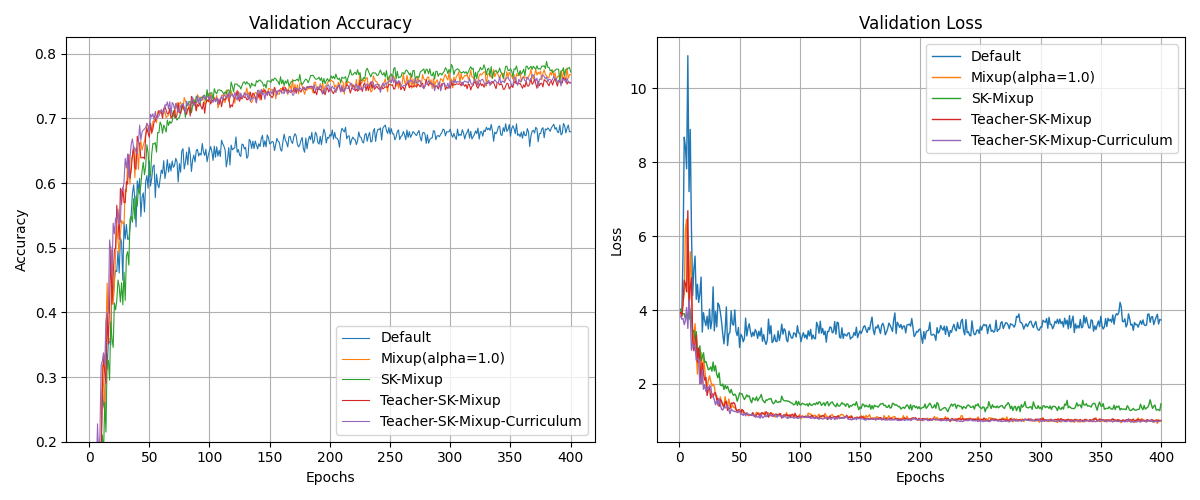
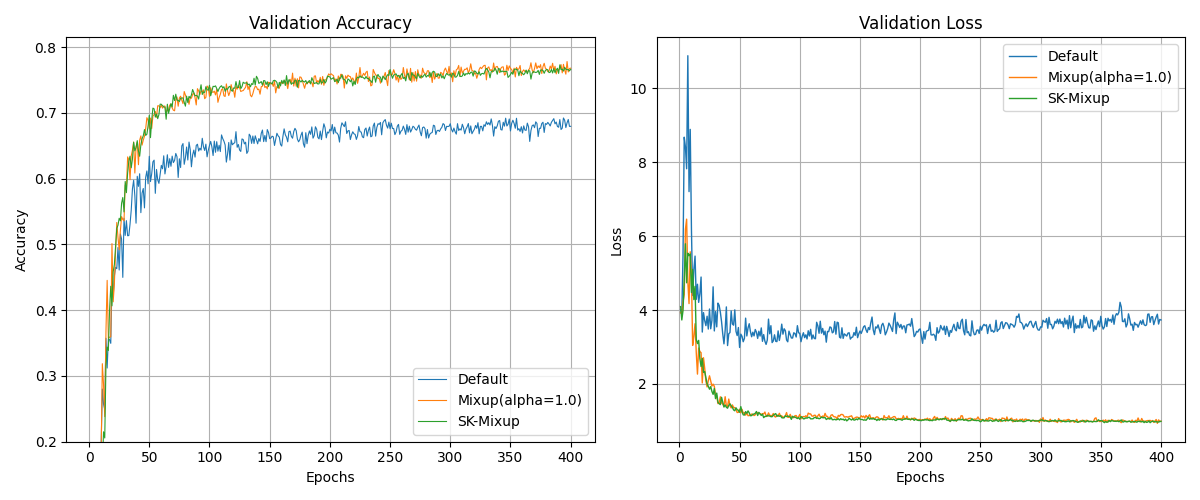
sk

diff --git a/result.py b/result.py
@@ -36,8 +36,8 @@ def main():
 
         # "Ent-Mixup",
         "SK-Mixup",
-        "Teacher-SK-Mixup",
-        "Teacher-SK-Mixup-Curriculum",
+        # "Teacher-SK-Mixup",
+        # "Teacher-SK-Mixup-Curriculum",
 
         # "FOMA",
         # "FOMA_latent_random",
